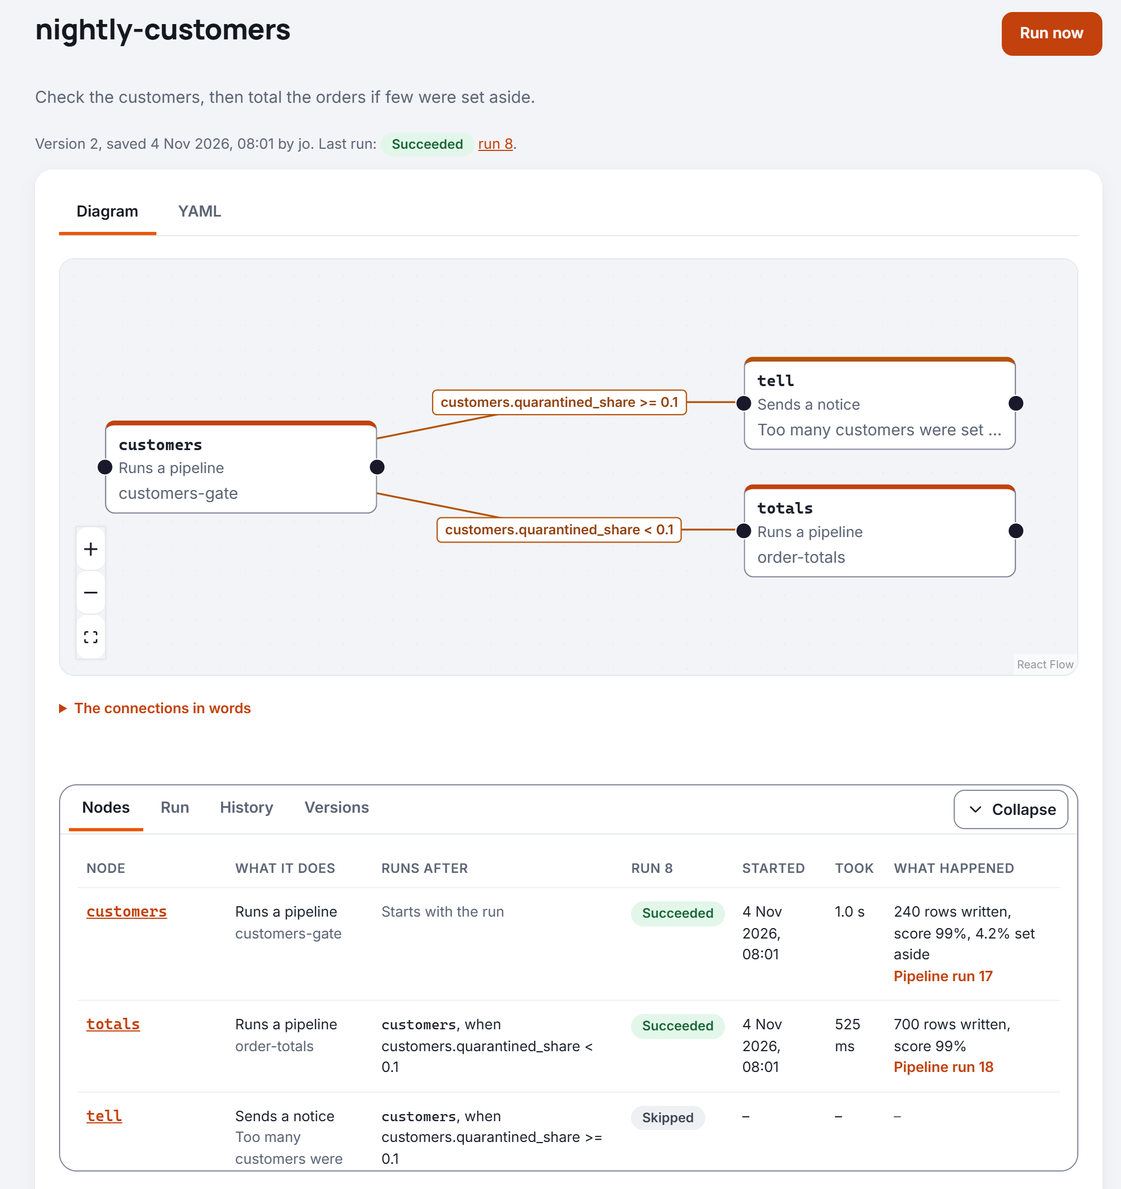
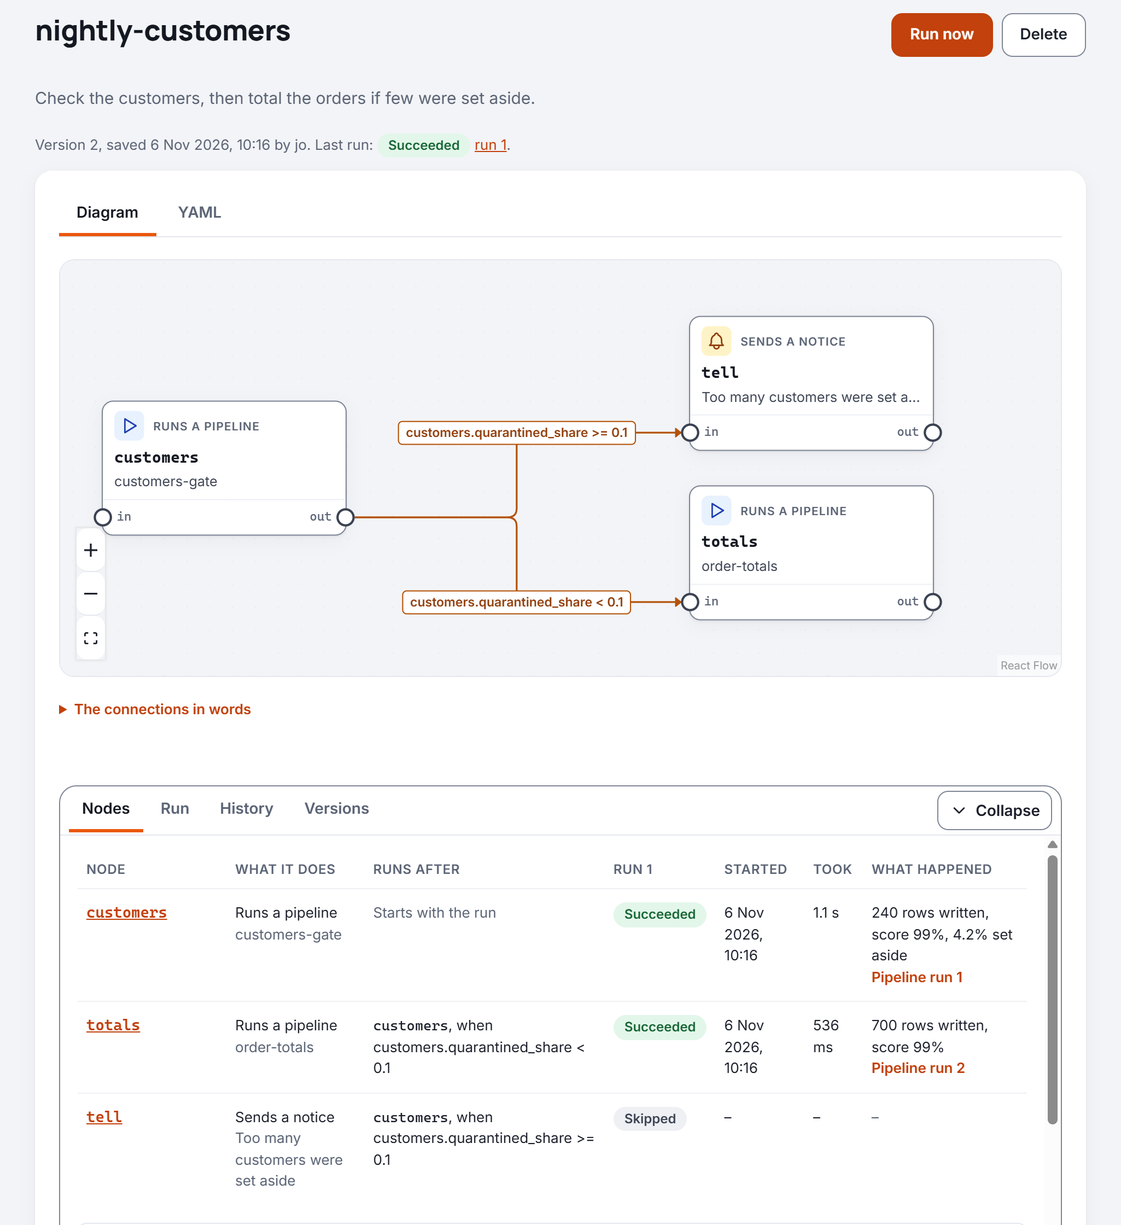
Delete a flow: ADR 0048, guides, design notes and pictures
ADR 0048 records the decisions: as a pipeline is deleted; versions, runs and node runs go; the
pipeline runs a flow started stay, unlinked; schedules go and are each audited; the lock order;
no audit event for the delete itself (a gap shared with pipelines); no flow names another yet;
samples are deleted like any other flow. The flows guide gains "Deleting a flow" with a diagram
and a screenshot of the warning; the schedules, audit-log and design notes, ADR 0046, the
backlog and the CHANGELOG say flows can now be deleted. The README's flow page picture is
retaken, since the page now shows Delete.

diff --git a/docs/adr/0048-deleting-a-flow.md b/docs/adr/0048-deleting-a-flow.md
@@ -1,0 +1,69 @@
+# 0048 Deleting a flow
+
+Status: Accepted (6 November 2026)
+
+## Context
+
+A pipeline can be deleted: by a designer or an admin, never while a run of it is queued or running,
+with its versions, runs and schedules, while what its runs wrote and the lineage they recorded stay
+(`PipelineResource.delete`, ADR 0046 for the schedules). A flow could not be deleted. Flows F3
+(docs/design/flows.md) left it open because a flow's runs start pipeline runs, and those stay
+linked to the flow run that started them (`pipeline_run.flow_run_id`, V20). What deleting a flow
+does to them had to be decided first. The scheduler (ADR 0046) added a second question: a flow's
+schedules, and the order the locks are taken in.
+
+## Decision
+
+1. **Deleting a flow works as deleting a pipeline does.** `DELETE /api/v1/flows/{name}`, for
+   designers and admins: 204 when deleted, 404 when there is no such flow, 409 while a run of it is
+   queued or running (cancel it, or wait for it, then delete). The check and the delete are one
+   transaction, with the flow's row locked, so a run queued at the same moment either comes first
+   (and the delete is refused) or fails because the flow is gone.
+2. **What goes:** the flow, its versions, its runs and each run's node runs. The foreign keys of
+   V20 already cascade (`flow_version` from `flow`, `flow_run` from `flow_version`, `flow_node_run`
+   from `flow_run`), so no migration is needed.
+3. **What stays: the pipeline runs the flow's runs started.** They wrote data and recorded lineage
+   and quality results, which belong to the pipelines and the catalogue, not to the flow. They stay
+   in their pipelines' histories. Their link to the flow run is set to null by V20's
+   `ON DELETE SET NULL`, so nothing links to a run that is gone; the node, item and try numbers
+   they were started for stay as written, read by nothing once the flow run is gone. Who asked for
+   each (a person, or a schedule) stays too. A schedule's last flow run is set to null the same way
+   (V36), though the schedule itself goes (decision 4).
+4. **Its schedules go with it, and each is recorded**, exactly as a pipeline's are: deleted in the
+   flow delete's own transaction with `DELETE … RETURNING`, and each recorded as
+   `schedule.deleted` with `via: flow deleted`, so a schedule added while the flow was being deleted
+   is never removed unrecorded. Pipelines and flows share the code (`ScheduleStore.lockFor`,
+   `ScheduleStore.deleteFor`, `ScheduleService.recordDeletedWith`).
+5. **The flow's schedules are locked before the flow's own row**, the order a scheduled fire takes
+   them: the fire holds its schedule's row while it queues the run, which locks the flow. The fire
+   holds the one on one connection and asks for the other on another, so PostgreSQL could not see a
+   deadlock between them and break it. A test holds a fire between the two, starts a delete, waits
+   until PostgreSQL shows the delete waiting, then lets the fire go: the fire queues its run and the
+   delete is refused with 409. With the order reversed, the test fails (it times out).
+6. **No audit event for the delete itself.** Deleting a pipeline records none either: only the
+   schedules deleted with it are recorded. Kilnmark is consistent, and this is a gap for both: who
+   deleted a pipeline or a flow, and when, is in the server's log only, not in the audit log. Adding
+   `pipeline.deleted` and `flow.deleted` together is a follow-up.
+7. **No flow names another flow today**, so none is refused for being used. A flow's nodes are
+   `run-pipeline`, `for-each`, `stop`, `notify`, `wait`, `sql`, `check-source` and `wait-for`
+   (`FlowDefinition.TYPES`); none runs a flow. When a `run-flow` node arrives (Flows F2b), it must
+   decide this: refuse deleting a flow another one names, or fail the calling node at run time as a
+   flow does today when a pipeline it runs has been deleted.
+8. **A Library sample is deleted like any other flow** (ADR 0043). Its mark is a column of the
+   flow's row and goes with it. The Library then shows the sample as not added, and Add samples
+   adds it again. On the page, deleting a sample returns to the Library; any other flow returns to
+   the Flows list.
+9. **The page asks first, on the page.** Delete is on a flow's page for designers and admins. It
+   shows a warning on the page, as the pipeline page does before running unsaved work, that names
+   the flow, says what is deleted and what stays, and starts with the focus on Cancel. A refusal
+   (a run is going) is shown as the page's error.
+
+## Consequences
+
+- A flow's run history goes with it. The pipelines it ran keep their runs, but those no longer say
+  which flow run started them.
+- A link to one of its runs (in a notification, say) now finds no run.
+- Deleting a pipeline and a flow that ran it at the same moment can touch the same pipeline runs.
+  Both waits are inside PostgreSQL, so if they ever wait for each other it breaks the deadlock and
+  one of the two fails; it can be tried again.
+- Follow-up: audit events for deleting a pipeline and a flow (decision 6).

diff --git a/docs/guide/flows.md b/docs/guide/flows.md
@@ -9,8 +9,8 @@ recorded node by node.
 
 - **Viewers** read flows and their runs.
 - **Stewards** run flows, give their parameters values, and cancel runs.
-- **Designers** add flows and save new versions, and with **admins** give flows schedules
-  ([Running pipelines and flows on a schedule](schedules.md)). A flow with a `sql` node is saved only by a
+- **Designers** add flows, save new versions and delete flows, and with **admins** give flows
+  schedules ([Running pipelines and flows on a schedule](schedules.md)). A flow with a `sql` node is saved only by a
   designer whose token sees unmasked values, since SQL can read and change any column its source's
   login can.
 
@@ -23,7 +23,8 @@ not.
 **Flows**, in the sidebar after Pipelines, lists every flow with its latest version, whether that
 version can run, and its last run. Stewards see **Run now** beside each; designers see **New flow**.
 
-A flow's own page is laid out as a pipeline's: its name with **Run now**, then the flow on two tabs,
+A flow's own page is laid out as a pipeline's: its name with **Run now** (and **Delete**, for
+designers and admins), then the flow on two tabs,
 **Diagram** and **YAML**, which show and edit the same flow. Under them, a panel with the pipeline
 page's tabs:
 
@@ -584,9 +585,34 @@ node started waits the same way, on its own page.
 To stop a run, open it and choose **Cancel run** (stewards). Nothing more starts, and the pipeline
 runs it started that are still going are cancelled. What they had already written stays written.
 
+## Deleting a flow
+
+Designers and admins can delete a flow they no longer need. Open it and choose **Delete**, beside
+**Run now**. The page asks first, naming the flow and saying what goes and what stays:
+
+![The flow nightly-customers's page after Delete was chosen: under its name, with Run now and Delete beside it, a warning asks "Delete the flow nightly-customers? Its versions, its runs with what each node did, and its schedules are deleted. The pipeline runs it started stay, with what they wrote and the lineage they recorded. This cannot be undone.", with the buttons Delete nightly-customers and Cancel, the focus on Cancel](images/flow-delete-confirm.png)
+
+![What deleting a flow does: the flow and every version of it, its runs with what each node did, and its schedules (each recorded in the audit log) are deleted; the pipeline runs it started stay in their pipelines' history, with the tables and files they wrote, and their lineage and quality results in the catalogue. Deleting is refused while a run of the flow is queued or running](images/flow-delete.svg)
+
+- **Deleted:** the flow, every version of it, its runs with what each node did, and its
+  schedules. Each schedule deleted this way is recorded in the [audit log](audit-log.md) as
+  **Schedule deleted**, saying it went with the flow.
+- **Kept:** the pipeline runs it started, in their pipelines' history, with what they wrote, the
+  lineage they recorded and their quality results. They no longer say which flow run started them.
+
+Choose **Delete** followed by the flow's name to delete it; you are taken back to the Flows list, or to the
+Library for a sample. Choose **Cancel** to keep it. Nothing can bring a deleted flow back, but its
+YAML can be saved again under the same name as a new flow, starting at version 1.
+
+A flow cannot be deleted while a run of it is queued or running: the page says so. Cancel the run,
+or wait for it to finish, then delete. A sample from the Library is deleted the same way; the
+Library then shows it as not added, and **Add samples** adds it again.
+
+Through the API: `DELETE /api/v1/flows/<name>` (designers and admins) answers 204 when the flow is
+deleted, 404 when there is no such flow, and 409 while a run is queued or running.
+
 ## What is not here yet
 
 - Changing a node's settings on the diagram: for now, change them in the YAML.
-- Deleting a flow.
 - Pages for schedules: flows run on a schedule now, set through the API for the moment
   ([Running pipelines and flows on a schedule](schedules.md)).

diff --git a/docs/design/schedules.md b/docs/design/schedules.md
@@ -12,7 +12,7 @@ One row of `schedule` per schedule; a pipeline or flow may have several.
 | Column | What it holds |
 | --- | --- |
 | `id` | A number of its own, shown in who a run was requested by |
-| `pipeline`, `flow` | What it runs: exactly one is set. Each is a foreign key that cascades. Deleting a pipeline deletes its schedules in its own transaction (`PipelineStore.deleteWithSchedules`, `DELETE … RETURNING`) and records each. Flows cannot be deleted yet; when they can, the cascade takes their schedules |
+| `pipeline`, `flow` | What it runs: exactly one is set. Each is a foreign key that cascades. Deleting a pipeline or a flow deletes its schedules in its own transaction (`PipelineStore.deleteWithSchedules`, `FlowStore.deleteWithSchedules`, both through `ScheduleStore.deleteFor`: `DELETE … RETURNING`) and records each |
 | `cron`, `zone` | When: five-field cron, read in an IANA zone (`UTC` by default) |
 | `parameters` | The values each run starts with, as given; defaults are filled in at each run, from the version then latest |
 | `run_as` | The role the runs have: `steward` (the default) or `designer`, never `admin` |
@@ -156,8 +156,9 @@ last run. Mistakes are 400 with `{"error": "..."}` naming the field: `cron:`, `z
 `schedule.set` when a schedule is added or changed, and `schedule.deleted`, each on
 `schedule <id>` with the pipeline or flow, cron, zone, `runAs` and `enabled`: never the parameter
 values (ADR 0029). `schedule.paused` when a schedule stops because its setter lost the role, with
-the reason (section 10). Deleting a pipeline records `schedule.deleted`, with `via: pipeline deleted`,
-for exactly the schedules its own transaction deleted, so one added while it was being deleted is
+the reason (section 10). Deleting a pipeline or a flow records `schedule.deleted`, with
+`via: pipeline deleted` or `via: flow deleted` (`ScheduleService.recordDeletedWith`), for exactly
+the schedules its own transaction deleted, so one added while it was being deleted is
 never removed unrecorded. The runs themselves are recorded as runs, requested by the
 schedule.
 
@@ -208,12 +209,11 @@ it is still on, still `starting` and runs the same pipeline or flow, and holds i
 to the outcome, queueing the run in between. A token revoked, or a schedule paused or changed,
 meanwhile either comes first (the check fails, or the row is no longer as claimed and says
 `skipped: the schedule was changed while it was starting`) or waits until the run is queued and
-recorded. A run already queued or running is never cancelled by a pause. Deleting a pipeline
-locks its schedules' rows before the pipeline's own, the order a fire takes them (its run locks
-the pipeline), so the two never deadlock. The order matters more than usual: the fire's row lock
+recorded. A run already queued or running is never cancelled by a pause. Deleting a pipeline or
+a flow locks its schedules' rows before its own row (`ScheduleStore.lockFor`), the order a fire
+takes them (its run locks the pipeline or flow), so the two never deadlock. The order matters more than usual: the fire's row lock
 is held on one connection while its run is queued on another, so PostgreSQL could not see such a
-deadlock and break it; a test shows the other order hangs. Deleting a flow, when it arrives, must
-lock the flow's schedules first in the same way.
+deadlock and break it; a test for each (`ScheduleApiTest`) shows the other order hangs.
 
 If the check fails, nothing is queued: the row is turned off, its next fire cleared,
 `last_at` set to now, and the outcome written; `schedule.paused` is recorded by the server with the

diff --git a/docs/design/flows.md b/docs/design/flows.md
@@ -202,10 +202,20 @@ index allows one queued or running run per flow. V20 named them `flow_step_run`,
 V29 adds `flow_version.sql_checked` (section 7). V31 adds `pipeline_run.flow_item` (section 8) and
 moves the unique index to `(flow_run_id, flow_node, coalesce(flow_item, -1))`.
 
+**Deleting a flow** ([ADR 0048](../adr/0048-deleting-a-flow.md), `FlowStore.deleteWithSchedules`)
+leans on V20's foreign keys: deleting the `flow` row cascades to `flow_version`, from there to
+`flow_run` and on to `flow_node_run`, and sets `pipeline_run.flow_run_id` to null, so the pipeline
+runs a flow started stay, with what they wrote and recorded (their `flow_node`, `flow_item` and
+`flow_try` stay as written, read by nothing once the flow run is gone). One transaction locks the
+flow's schedules, then the flow's row, refuses (409) while a run is queued or running, deletes the
+schedules with `DELETE … RETURNING` to record each (docs/design/schedules.md, section 8), then the
+flow. No node runs another flow yet; a `run-flow` node (F2b) must decide what deleting a flow it
+names does.
+
 ## 5. Who may do what
 
-- **Saving a flow takes a designer, running and cancelling one a steward** (`FlowService` checks,
-  and the API's roles). A flow with a `sql` node is saved only by a designer whose token sees
+- **Saving or deleting a flow takes a designer, running and cancelling one a steward**
+  (`FlowService` checks, and the API's roles). A flow with a `sql` node is saved only by a designer whose token sees
   unmasked values (section 7); the API passes the caller's grant. Viewers see flows and their runs
   (F3), but not the values a run started with, nor node messages that quote them (a notice's title,
   the values a pipeline refused): those can hold server variables, which only stewards read. The
@@ -236,8 +246,7 @@ moves the unique index to `(flow_run_id, flow_node, coalesce(flow_item, -1))`.
   yet started shown `pending`, and its cancel) and the pages: Flows in the sidebar after Pipelines, a
   flow page with the YAML editor, checked as it is typed, Run now with a dialog for parameter values,
   and a run page listing each node's status, time and message, linked to the pipeline run it
-  started. No delete: a flow's runs and the pipeline runs they started stay linked, and deleting
-  waits until what that means is decided. The sample flows are added by Add samples, after the pipelines they run, and listed in the
+  started. Deleting a flow came later (section 4, [ADR 0048](../adr/0048-deleting-a-flow.md)). The sample flows are added by Add samples, after the pipelines they run, and listed in the
   Library (ADR 0043).
 - **F4a, built.** `FlowDiagram` (ui/src/flows): the flow read from its YAML on the page
   (`readFlowGraph`, which reads only what it draws; the server's check says whether it is valid),

diff --git a/CHANGELOG.md b/CHANGELOG.md
@@ -7,6 +7,12 @@ details.
 
 ### What's new
 
+- **Delete a flow** (ADR 0048). Designers and admins delete a flow from its page, after a warning
+  that names it and says what goes and what stays: its versions, its runs and its schedules go
+  (each schedule recorded in the audit log); the pipeline runs it started stay, with what they
+  wrote and the lineage they recorded. Refused while a run of it is queued or running.
+  ([Deleting a flow](docs/guide/flows.md#deleting-a-flow))
+
 - **Pipelines and flows run on a schedule** (ADR 0046). Designers and admins give a pipeline or flow
   one or more schedules: a five-field cron time in a time zone, the values its runs start with, and
   the role they act as (steward or designer, never admin). A schedule pauses itself when whoever set
@@ -54,6 +60,20 @@ details.
   generator are built (above); settings on tabs and operations follow.
 
 ### Details
+
+- **Deleting a flow** (ADR 0048, docs/design/flows.md section 4). `DELETE /api/v1/flows/{name}`
+  (designer; 204, 404, or 409 while a run is queued or running) runs `FlowStore.deleteWithSchedules`
+  in one transaction: the flow's schedules are locked first, then the flow's row, the order a
+  scheduled fire takes them, so the two never deadlock (a test holds a fire between its two locks
+  and shows the delete waits, then is refused). V20's foreign keys take the versions, runs and node
+  runs, and set the started pipeline runs' `flow_run_id` to null; no migration. Its schedules are
+  deleted with `DELETE … RETURNING` and each recorded as `schedule.deleted` with
+  `via: flow deleted`. Pipelines and flows now share that code (`ScheduleStore.lockFor`,
+  `ScheduleStore.deleteFor`, `ScheduleService.recordDeletedWith`). Deleting a pipeline or a flow
+  still records no audit event of its own: a gap for both, noted in ADR 0048. No node runs another
+  flow, so nothing refuses a delete for being used. The flow page's **Delete** (designers and
+  admins) asks on the page, starts on Cancel, and goes to the Flows list (or the Library for a
+  sample) once deleted.
 
 - **Error Prone checks the flow files too** (ADR 0042, decision 5). `FlowDefinition`, its test,
   `FlowService` and `JobQueue` are no longer left out. What it found is fixed: case changes now

diff --git a/docs/guide/audit-log.md b/docs/guide/audit-log.md
@@ -28,7 +28,7 @@ it (behind a proxy, as its forwarding settings say).
 | Database restored (`database.restored`) | Kilnmark's database was restored from a backup with `restore.sh` ([Backing up and restoring Kilnmark](backup-and-restore.md)), recorded at the first start after it. Events after the backup's time are in your SIEM and the kept database, not in the restored log | The backup, when it was taken, its Kilnmark version, the previous database's name, and whether the keys were restored |
 | Schedule set (`schedule.set`) | A designer or admin added or changed a schedule ([Running pipelines and flows on a schedule](schedules.md)); the event is on `schedule <id>` | The pipeline or flow, the cron expression, the zone, the role its runs act as, and whether it is on. Never the values its runs start with |
 | Schedule paused (`schedule.paused`) | A schedule stopped because whoever set it no longer has its role: their token was revoked or expired, or a sign-in gave them less of a role ([Running pipelines and flows on a schedule](schedules.md#when-the-person-who-set-it-loses-the-role)). By the admin who revoked the token, the person signing in, or the server at the schedule's time | As for Schedule set, with why |
-| Schedule deleted (`schedule.deleted`) | A schedule was deleted, by itself or with its pipeline | As for Schedule set, and `via: pipeline deleted` when its pipeline was deleted |
+| Schedule deleted (`schedule.deleted`) | A schedule was deleted, by itself or with its pipeline or flow | As for Schedule set, and `via: pipeline deleted` or `via: flow deleted` when its pipeline or flow was deleted |
 | Column marked sensitive (`mark.set`) | A column was marked | The column |
 | Sensitive mark cleared (`mark.cleared`) | A mark was cleared: the column's values are no longer masked | The column |
 | Source deleted (`source.deleted`) | A source and what was recorded about it were deleted | Its assets and runs, and whether it had marks (deleting it cleared them) |

diff --git a/docs/adr/0046-scheduler.md b/docs/adr/0046-scheduler.md
@@ -24,8 +24,7 @@ Three things make a schedule different from what a pipeline or flow says:
 1. **One scheduler, for pipelines and flows.** A schedule is a row of its own (`schedule`, V36),
    not part of the YAML. It names one pipeline or one flow; each may have several schedules.
    Deleting a pipeline deletes its schedules, in the same transaction, and records each one.
-   Flows cannot be deleted yet; when deleting a flow arrives (the next change), the same foreign
-   key, which cascades, takes its schedules.
+   Deleting a flow does the same ([ADR 0048](0048-deleting-a-flow.md), which came after).
 2. **Designers and admins set schedules**: add, change, pause, resume and delete them (owner,
    6 November 2026), checked by the API's roles and again inside `ScheduleService`. Stewards read
    them with the values their runs start with; viewers read them without those values, as they
@@ -117,7 +116,7 @@ Three things make a schedule different from what a pipeline or flow says:
    sign-in is off (a lab) runs only while sign-in is still off.
 10. **Audited** (ADR 0029): `schedule.set` when one is added or changed, `schedule.deleted` when
    one is deleted, with what it runs, its cron, zone, role and whether it is on, and never its
-   parameter values. A pipeline deleted with schedules records `schedule.deleted` for exactly the
+   parameter values. A pipeline or flow deleted with schedules records `schedule.deleted` for exactly the
    schedules its own transaction deleted. A schedule paused because its setter lost the role
    records `schedule.paused`, with the reason. The runs themselves are recorded as runs requested by
    the schedule.

diff --git a/README.md b/README.md
@@ -36,7 +36,7 @@ under it a panel with the latest run, its nodes, suggestions, every run and ever
 A flow's page: its diagram, connections labelled with when they are taken, and the same panel, here
 listing each node with what it runs after and how it went in the latest run.
 
-![A flow's page: a diagram running a pipeline, then either a second pipeline or a notice depending on the share of customers set aside; under it the Nodes tab, a table of each node, what it runs after, and its status, start, time and result in the latest run](docs/images/flow-page.png)
+![A flow's page, with Run now and Delete beside its name: a diagram running a pipeline, then either a second pipeline or a notice depending on the share of customers set aside; under it the Nodes tab, a table of each node, what it runs after, and its status, start, time and result in the latest run](docs/images/flow-page.png)
 
 ## Quick start
 

diff --git a/docs/guide/schedules.md b/docs/guide/schedules.md
@@ -203,8 +203,8 @@ one, send it with `"enabled": false`; it has no next time while paused. To resum
 next time is worked out from then, and the times it was paused are not made up.
 
 `DELETE /api/v1/schedules/<id>` deletes a schedule. Its runs stay, in the pipeline's or flow's
-history. Deleting a pipeline deletes its schedules too, and each is recorded in the audit log as
-deleted with it. Flows cannot be deleted yet; when they can, their schedules will go with them.
+history. Deleting a pipeline or a flow deletes its schedules too, and each is recorded in the
+audit log as deleted with it ([Deleting a flow](flows.md#deleting-a-flow)).
 
 Every change to a schedule is in the [audit log](audit-log.md), as **Schedule set** or **Schedule
 deleted**, with what it runs, when, in which zone, as which role, and whether it is on. The values

diff --git a/docs/adr/README.md b/docs/adr/README.md
@@ -49,3 +49,4 @@ Add a new record rather than editing an accepted one; mark the old one supersede
 | [0044](0044-installing-with-one-control-script.md) | Installing and running Kilnmark with one control script, from signed images | Accepted |
 | [0045](0045-database-tools.md) | Database tools: explore a source, generate its SQL, and change it only with controls (amends 0028) | Accepted |
 | [0046](0046-scheduler.md) | One built-in scheduler for pipelines and flows | Accepted |
+| [0048](0048-deleting-a-flow.md) | Deleting a flow: its runs and schedules go, the pipeline runs it started stay | Accepted |

diff --git a/docs/product/backlog.md b/docs/product/backlog.md
@@ -21,8 +21,8 @@ run timelines).
    `gradle/verification-metadata.xml` (ADR 0042).
 3. **The scheduler's pages, and deleting a flow** (Flows F4, [ADR 0026](../adr/0026-flows.md),
    [ADR 0046](../adr/0046-scheduler.md)): the scheduler's server and API are built, for pipelines
-   and flows (docs/design/schedules.md); the pages to set and read schedules, and deleting a flow,
-   remain.
+   and flows (docs/design/schedules.md); the pages to set and read schedules remain. Deleting a
+   flow is built ([ADR 0048](../adr/0048-deleting-a-flow.md)): done.
 
 ## 2. Get a release out
 
